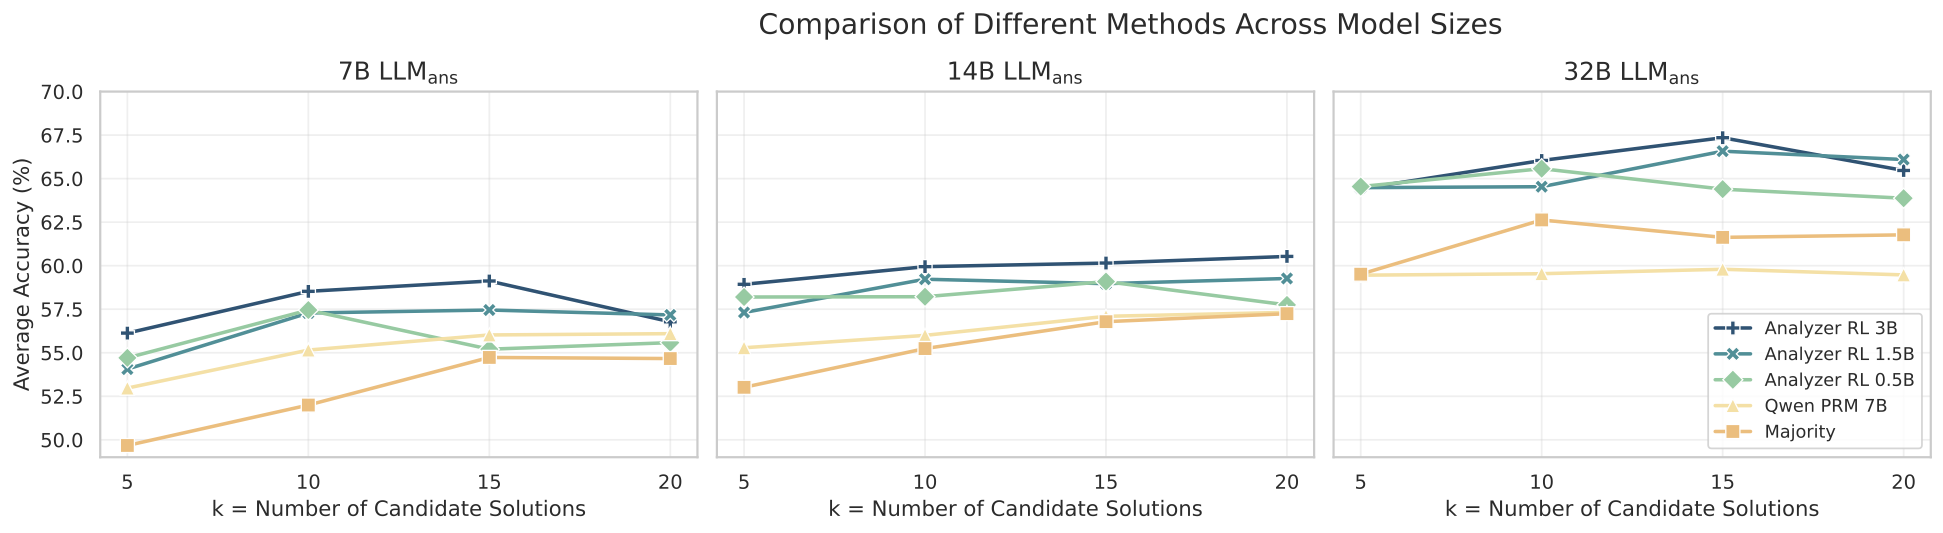
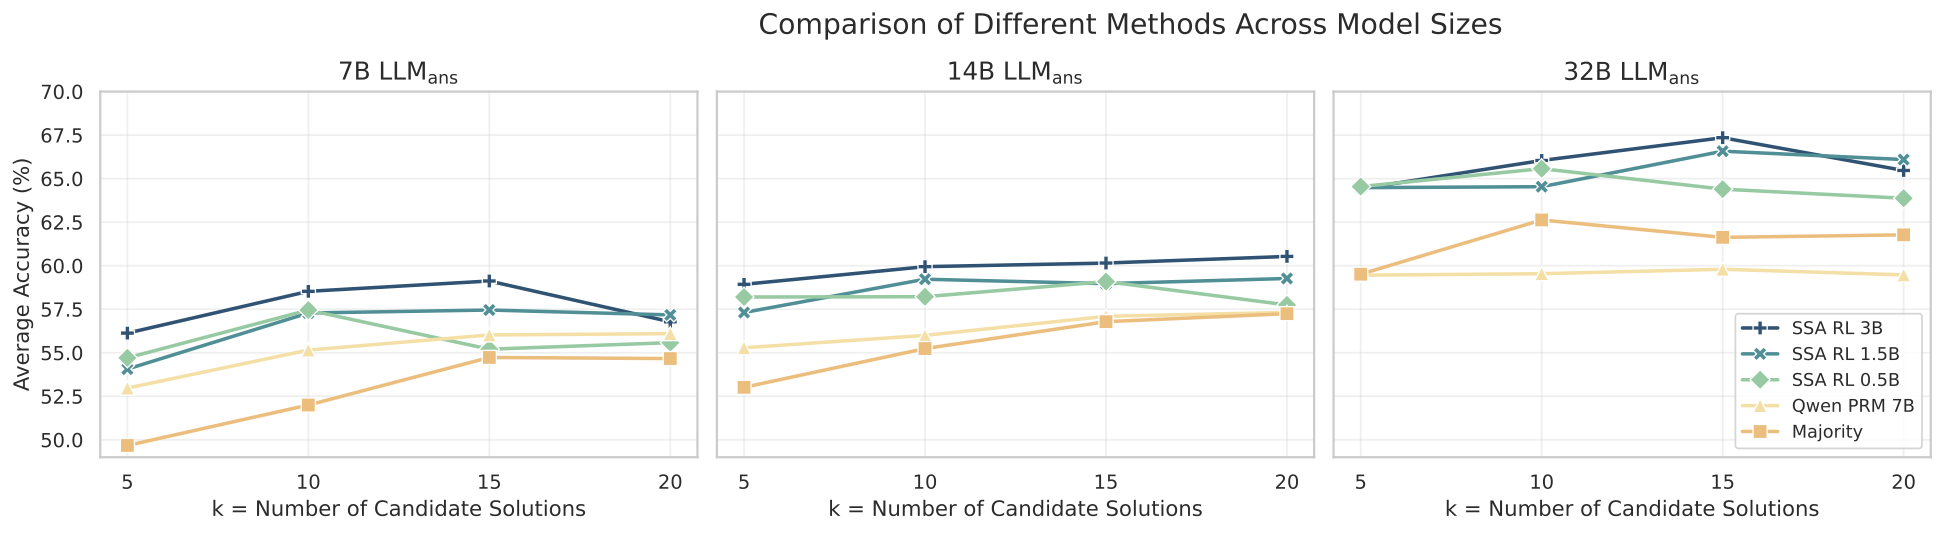
name update

Changed region(s): [[0.8646, 0.6004, 0.9882, 0.8405]]

diff --git a/index.html b/index.html
@@ -20,8 +20,8 @@
 
   <!-- =======================  META  ======================= -->
   <meta charset="utf-8" />
-  <title>Analyzer — Reasoning Across Parallel Samples</title>
-  <meta name="description" content="Analyzer: a compact LLM that learns to reason across parallel samples and close the oracle-gap of test-time scaling." />
+  <title>SSA — Parallel Reasoning Sample Set Aggregator</title>
+  <meta name="description" content="SSA: a compact LLM that learns to aggregate across parallel samples set reasoningand close the oracle-gap of test-time scaling." />
   <meta name="keywords" content="large language models, reasoning, reinforcement learning, test-time scaling" />
   <meta name="viewport" content="width=device-width, initial-scale=1" />
 
@@ -75,7 +75,7 @@
   <section class="hero is-fullheight-with-navbar">
     <div class="hero-body is-justify-content-center is-align-items-center">
       <div class="container has-text-centered">
-        <h1 class="title is-1">Analyzer</h1>
+        <h1 class="title is-1">SSA: Sample Set Aggregator</h1>
         <h2 class="subtitle is-4">Learning to Reason Across <em>Parallel&nbsp;Samples</em> for LLM Reasoning</h2>
 
         <!-- AUTHORS INLINE -->
@@ -98,15 +98,15 @@
 
         <div class="buttons is-centered">
           <a class="button is-dark is-rounded" href="https://arxiv.org/abs/" target="_blank"><i class="ai ai-arxiv mr-1"></i>Paper</a>
-          <a class="button is-dark is-rounded" href="https://github.com/your‑org/analyzer" target="_blank"><i class="fab fa-github mr-1"></i>Code</a>
-          <a class="button is-dark is-rounded" href="https://huggingface.co/spaces/your‑org/analyzer-demo" target="_blank"><i class="fas fa-rocket mr-1"></i>Model</a>
+          <a class="button is-dark is-rounded" href="https://github.com/user074/ssa" target="_blank"><i class="fab fa-github mr-1"></i>Code</a>
+          <a class="button is-dark is-rounded" href="https://huggingface.co/spaces/your‑org/SSA-demo" target="_blank"><i class="fas fa-rocket mr-1"></i>Model</a>
         </div>
-
-        <!--  Animated teaser  -->
+        
         <figure class="mt-6">
-          <img class="teaser" src="./static/images/analyzer.gif" alt="Animated overview of the Analyzer pipeline" width="640" loading="eager" />
-          <figcaption class="is-size-7 has-text-grey">Parallel candidates → small RL‑tuned <strong>Analyzer</strong> → final answer</figcaption>
+          <img src="./static/images/SSA_arch.png" alt="Architecture diagram comparing SSA to parallel and sequential test‑time scaling" loading="lazy" style="width: 80%;" />
         </figure>
+
+
       </div>
     </div>
   </section>
@@ -118,7 +118,7 @@
   <section class="section has-background-light">
     <div class="container is-max-desktop content">
       <h2 class="title is-3">Abstract</h2>
-      <p>Scaling test‑time compute by <em>sampling</em> multiple reasoning paths yields large gains but leaves an oracle gap. We introduce <strong>Analyzer</strong>, a tiny LLM fine‑tuned with Group‑Relative PPO to read <code>k</code> candidate solutions and emit one final answer. On GSM8K, MATH, AIME‑24, AMC‑23 and OlympiadBench, Analyzer reaches <strong>56.1&nbsp;%</strong> accuracy—just <strong>3.6&nbsp;pp</strong> shy of the Pass@5 oracle—and beats 7 B process‑reward models while training on &lt;5 % of their data. The model generalises across base‑family (Qwen → Llama‑3), base‑size (7 → 32 B) and <code>k</code> without re‑tuning.</p>
+      <p>Scaling test‑time compute by <em>sampling</em> multiple reasoning paths yields large gains but leaves an oracle gap. We introduce <strong>SSA</strong>, a tiny LLM fine‑tuned with Group‑Relative PPO to read <code>k</code> candidate solutions and emit one final answer. On GSM8K, MATH, AIME‑24, AMC‑23 and OlympiadBench, SSA reaches <strong>56.1&nbsp;%</strong> accuracy—just <strong>3.6&nbsp;pp</strong> shy of the Pass@5 oracle—and beats 7 B process‑reward models while training on &lt;5 % of their data. The model generalises across base‑family (Qwen → Llama‑3), base‑size (7 → 32 B) and <code>k</code> without re‑tuning.</p>
     </div>
   </section>
 
@@ -128,12 +128,15 @@
   <section class="section">
     <div class="container is-max-desktop">
       <h2 class="title is-3">Method at a Glance</h2>
-      <figure>
-        <img src="./static/images/Analyzer_arch.png" alt="Architecture diagram comparing Analyzer to parallel and sequential test‑time scaling" loading="lazy" />
+      <!--  Animated teaser  -->
+      <figure class="mt-6">
+        <img class="teaser" src="./static/images/SSA.gif" alt="Animated overview of the SSA pipeline" width="640" loading="eager" />
+        <figcaption class="is-size-7 has-text-grey">Parallel candidates → small RL‑tuned <strong>SSA</strong> → final answer</figcaption>
       </figure>
+
       <ul class="content">
         <li><strong>Step 1:</strong> Freeze a base LLM; sample <code>k</code> solutions.</li>
-        <li><strong>Step 2:</strong> Concatenate solutions + prompt → Analyzer (0.5–3 B).</li>
+        <li><strong>Step 2:</strong> Concatenate solutions + prompt → SSA (0.5–3 B).</li>
         <li><strong>Training:</strong> GRPO with a sparse, verifiable reward (correct / format).</li>
       </ul>
     </div>
@@ -146,13 +149,13 @@
     <div class="container is-max-desktop">
       <h2 class="title is-3">Results</h2>
       <div class="content">
-        <p><strong>Analyzer‑3B</strong> surpasses a 7 B process‑reward verifier. The same checkpoint can be plugged into frozen base models up to 32 B with no re‑tuning.</p>
+        <p><strong>SSA‑3B</strong> surpasses a 7 B process‑reward verifier. The same checkpoint can be plugged into frozen base models up to 32 B with no re‑tuning.</p>
         <p>The charts below show the average of GSM8K, MATH, AIME‑24, AMC‑23 and OlympiadBench.</p>
 
       </div>
 
       <!-- overall bar / line chart -->
-      <figure class="mb-5"><img src="./static/images/all_model_comparison.png" alt="Bar chart comparing Analyzer to parallel‑scaling baselines" loading="lazy" /></figure>
+      <figure class="mb-5"><img src="./static/images/all_model_comparison.png" alt="Bar chart comparing SSA to parallel‑scaling baselines" loading="lazy" /></figure>
 
       <!-- miniature sortable leaderboard -->
       <table class="table is-striped is-hoverable is-fullwidth" id="leaderboard">
@@ -162,15 +165,32 @@
           <tr><td class="has-text-grey">Pass@5 (oracle)</td><td>—</td><td>5</td><td>59.7</td></tr>
           <tr><td>Majority vote</td><td>—</td><td>5</td><td>49.7</td></tr>
           <tr><td>Qwen‑PRM</td><td>7 B</td><td>5</td><td>53.0</td></tr>
-          <tr class="has-background-primary-light"><td><strong>Analyzer (ours)</strong></td><td>3 B</td><td>5</td><td><strong>56.1</strong></td></tr>
+          <tr class="has-background-primary-light"><td><strong>SSA (ours)</strong></td><td>3 B</td><td>5</td><td><strong>56.1</strong></td></tr>
         </tbody>
       </table>
 
       <div class="content">
-        <p>Below we also juxtapose Analyzer‑3B with <em>sequential</em> RL models that fine‑tune the <u>entire</u> 7 B / 14 B / 32 B backbone. Despite its 10× smaller footprint, Analyzer stays within 2–3 pp accuracy with similar tokens during test time.</p>
+        <p>Below we also juxtapose SSA‑3B with <em>sequential</em> RL models that fine‑tune the <u>entire</u> 7 B / 14 B / 32 B backbone. Despite its 10× smaller footprint, SSA stays within 2–3 pp accuracy with similar tokens during test time.</p>
       </div>
-      <!-- sequential RL vs Analyzer comparison figure -->
-      <figure class="mt-5"><img src="./static/images/inference_size_comparison.png" alt="Inference‑time compute vs. accuracy: Analyzer‑3B vs sequential‑RL (7/14/32 B)" loading="lazy" /></figure>
+      <!-- sequential RL vs SSA comparison figure -->
+      <figure class="mt-5"><img src="./static/images/inference_size_comparison.png" alt="Inference‑time compute vs. accuracy: SSA‑3B vs sequential‑RL (7/14/32 B)" loading="lazy" /></figure>
+    </div>
+  </section>
+
+  <!-- ========================================================= -->
+  <!--  Discussion                                                -->
+  <!-- ========================================================= -->
+  <section class="section">
+    <div class="container is-max-desktop">
+      <h2 class="title is-3">Discussion</h2>
+      <div class="content">
+        <p>Key Questions:</p>
+        <ul>
+          <li><strong>Does RL optimize the output distribution?</strong> We find that we can separate the reasoning abilities out from the model weights. By plug a small SSA on top of the base model outputs, we can signficantly increase the performance just like full RL training. It is possible to view SSA as shaping the output distribution of the base model not through weights but through sampled outputs.</li>
+          <li><strong>How helpful is the thinking process?</strong> Similar to the previous works, we find that thinking process might not be helpful for the final answer in terms of benchmark performance. Is thinking necessary for the model? Probably not. But it does seem that thinking process is a bit more robust to our of domain generalization when we test it on the other tasks such as MMLU-PRO and ARC-C.</li>
+          <li><strong>Can RL learn new reasoning abilities?</strong> The more interesting part is to use the SSA on top of the truncated reasoning outputs. We find that even a small SSA can recover most of the answer even when last 10% of the reasoning process and answers are truncated. However, pure RL version is much worse than the RL+SFT version. We believe it is an interesting direction to explore stitching the reasoning processes to arrive at the final answer.</li>
+        </ul>
+      </div>
     </div>
   </section>
 
